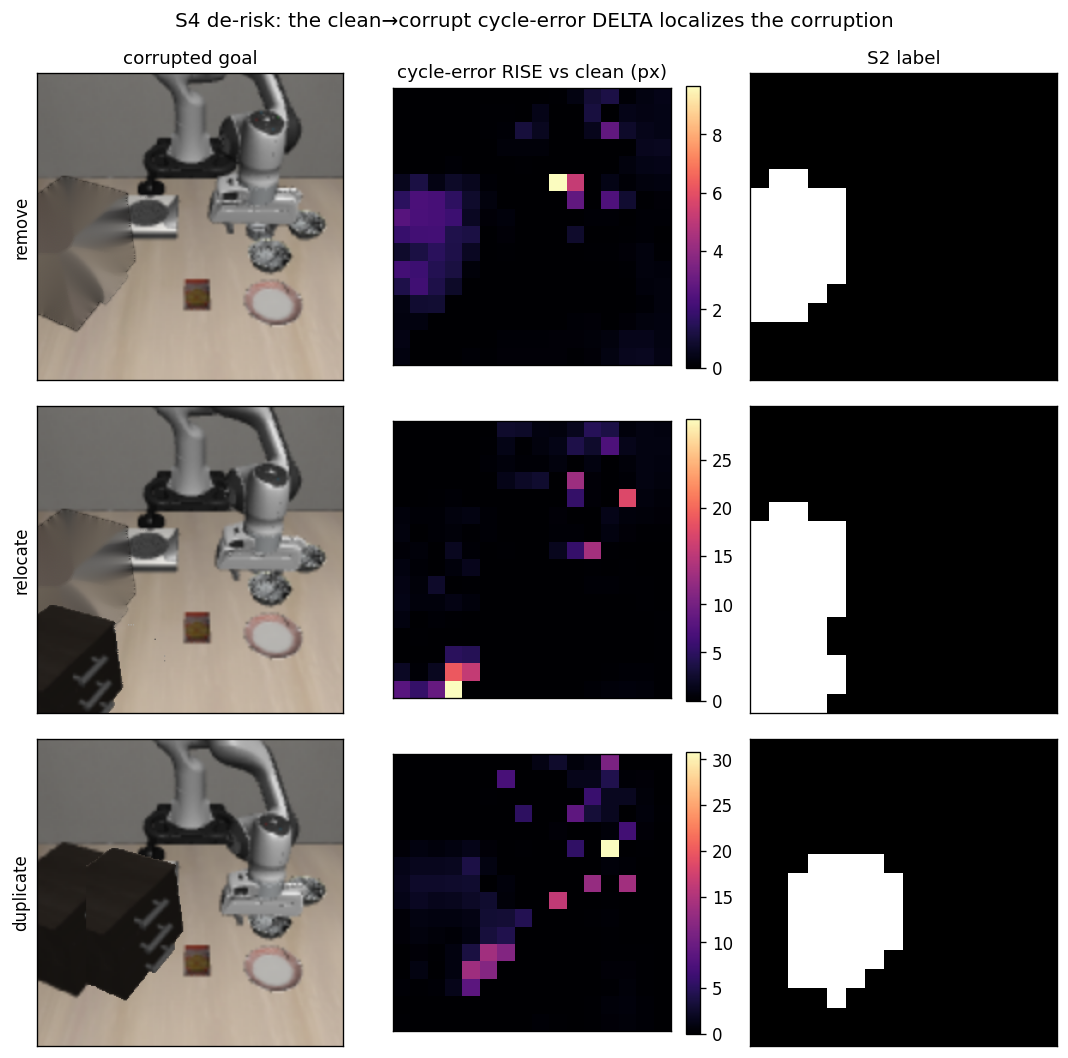
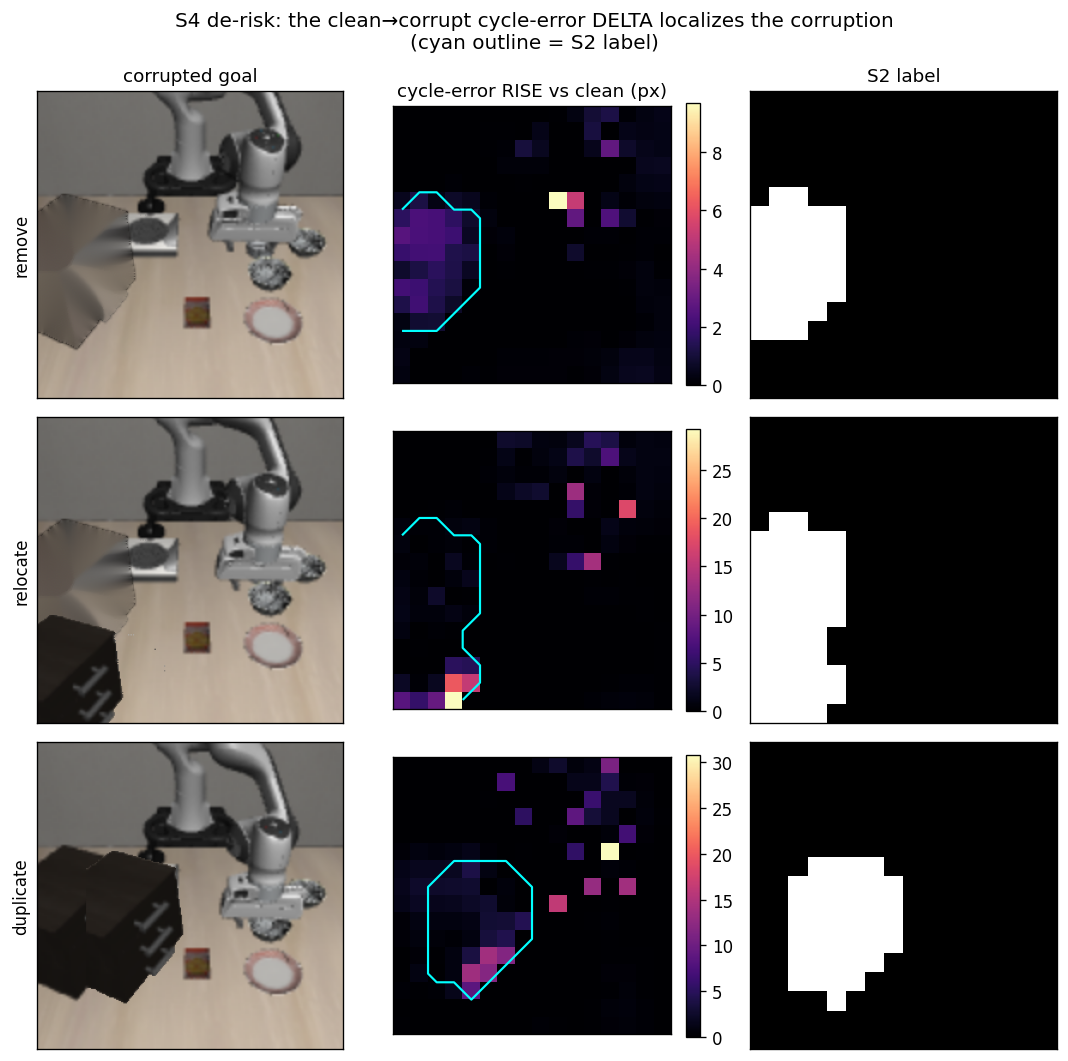
docs(S4): add direct separability visuals (ROC + distribution + label overlay)
- s4_disagreement_derisk.py emits viz/s4_derisk_roc.png and
  viz/s4_derisk_distribution.png; example heatmaps overlay the S2 label outline.
- S4 README documents all 3 figures + how to read them (per 2.6 visual rule).

diff --git a/src/eval/s4_disagreement_derisk.py b/src/eval/s4_disagreement_derisk.py
@@ -198,6 +198,8 @@ def main() -> int:
     out = Path(args.out); (out / "viz").mkdir(parents=True, exist_ok=True)
     (out / "report.json").write_text(json.dumps(report, indent=2))
     _save_examples(examples, out / "viz" / "s4_derisk_examples.png")
+    _save_roc(local, out / "viz" / "s4_derisk_roc.png")
+    _save_distribution(local, out / "viz" / "s4_derisk_distribution.png")
     print(json.dumps(report, indent=2))
     return 0
 
@@ -213,16 +215,62 @@ def _save_examples(examples, path):
     for r, (frame, cyc, lab, ctype) in enumerate(examples):
         axes[r, 0].imshow(frame); axes[r, 0].set_ylabel(ctype, fontsize=10)
         im = axes[r, 1].imshow(cyc, cmap="magma"); fig.colorbar(im, ax=axes[r, 1], fraction=0.046)
+        axes[r, 1].contour(lab.astype(float), levels=[0.5], colors="cyan", linewidths=1.3)  # label outline
         axes[r, 2].imshow(lab, cmap="Greys_r")
         for c in range(3):
             axes[r, c].set_xticks([]); axes[r, c].set_yticks([])
         if r == 0:
             for c, t in enumerate(["corrupted goal", "cycle-error RISE vs clean (px)", "S2 label"]):
                 axes[r, c].set_title(t, fontsize=11)
-    fig.suptitle("S4 de-risk: the clean→corrupt cycle-error DELTA localizes the corruption", fontsize=12)
+    fig.suptitle("S4 de-risk: the clean→corrupt cycle-error DELTA localizes the corruption\n"
+                 "(cyan outline = S2 label)", fontsize=12)
     fig.tight_layout()
     fig.savefig(path, bbox_inches="tight")
     plt.close(fig)
+
+
+def _roc_points(score, label):
+    label = label.astype(bool)
+    order = np.argsort(-score, kind="mergesort")
+    l = label[order]
+    tpr = np.concatenate([[0.0], np.cumsum(l) / max(label.sum(), 1)])
+    fpr = np.concatenate([[0.0], np.cumsum(~l) / max((~label).sum(), 1)])
+    return fpr, tpr
+
+
+def _save_roc(local, path):
+    import matplotlib
+    matplotlib.use("Agg")
+    import matplotlib.pyplot as plt
+    fig, ax = plt.subplots(figsize=(5.6, 5.3), dpi=120)
+    for key, name, col in [("delta", "cycle-error delta (corrupt−clean)", "#e45756"),
+                           ("invis", "1 − visibility", "#54a24b"),
+                           ("cyc", "absolute cycle error", "#4c78a8")]:
+        fpr, tpr = _roc_points(local[key], local["label"])
+        ax.plot(fpr, tpr, lw=2, color=col, label=f"{name}   AUROC {auroc(local[key], local['label']):.2f}")
+    ax.plot([0, 1], [0, 1], "k--", lw=1, alpha=0.4)
+    ax.set_xlabel("false positive rate"); ax.set_ylabel("true positive rate")
+    ax.set_aspect("equal"); ax.set_title("S4 de-risk — do corrupted patches rank above clean?")
+    ax.legend(loc="lower right", fontsize=9)
+    fig.tight_layout(); fig.savefig(path, bbox_inches="tight"); plt.close(fig)
+
+
+def _save_distribution(local, path):
+    import matplotlib
+    matplotlib.use("Agg")
+    import matplotlib.pyplot as plt
+    d, lab = local["delta"], local["label"].astype(bool)
+    bins = np.linspace(float(np.percentile(d, 1)), float(np.percentile(d, 99)), 40)
+    fig, ax = plt.subplots(figsize=(6.6, 4.0), dpi=120)
+    ax.hist(d[~lab], bins=bins, density=True, alpha=0.6, color="#4c78a8", label=f"clean patches (n={int((~lab).sum())})")
+    ax.hist(d[lab], bins=bins, density=True, alpha=0.6, color="#e45756", label=f"corrupted patches (n={int(lab.sum())})")
+    ax.axvline(np.median(d[~lab]), color="#4c78a8", ls="--", lw=1.5)
+    ax.axvline(np.median(d[lab]), color="#e45756", ls="--", lw=1.5)
+    ax.set_xlabel("cycle-error rise vs clean (px)"); ax.set_ylabel("density")
+    ax.set_title("Corrupted patches shift to higher disagreement\n"
+                 f"median: clean {np.median(d[~lab]):.2f}px → corrupted {np.median(d[lab]):.2f}px")
+    ax.legend()
+    fig.tight_layout(); fig.savefig(path, bbox_inches="tight"); plt.close(fig)
 
 
 if __name__ == "__main__":

diff --git a/CHANGELOG.md b/CHANGELOG.md
@@ -9,7 +9,13 @@ Format: `YYYY-MM-DD · <area>` — what changed, why, files/dirs, git commit (sh
 
 ## 2026-07-24
 
-- **S4 disagreement de-risk (pre-M1): the mechanism works, and the feature must be relative.** _(HEAD — this change)_
+- **S4 de-risk: added direct separability visuals (ROC + score distribution + label-overlaid heatmaps).** _(HEAD — this change)_
+  - `s4_disagreement_derisk.py` now also emits `viz/s4_derisk_roc.png` (ROC for delta/visibility/absolute)
+    and `viz/s4_derisk_distribution.png` (clean vs corrupted delta histogram, n=5041 vs 847 patches, median
+    0.00→1.00 px); example heatmaps now overlay the S2 label outline (cyan). Documented in the S4 README.
+  - Files: `src/eval/s4_disagreement_derisk.py`, `experiments/S4_disagreement_derisk/{README.md,viz/*}`.
+
+- **S4 disagreement de-risk (pre-M1): the mechanism works, and the feature must be relative.** `6f90b2a`
   - `src/eval/s4_disagreement_derisk.py`: native-encode `[obs…goal]` clips through the frozen backbone
     (no bridge), per-patch cycle error on the goal, AUROC vs S2 label. Reuses S0 helpers + the generators.
   - Result (`experiments/S4_disagreement_derisk/`): **cycle-error DELTA(corrupt−clean) AUROC 0.78,

diff --git a/experiments/S4_disagreement_derisk/README.md b/experiments/S4_disagreement_derisk/README.md
@@ -42,5 +42,12 @@ CKPT=checkpoints/OpenD4RT_48CLIP_9Mix_NoCropAUG
 # -> experiments/S4_disagreement_derisk/report.json + viz/s4_derisk_examples.png
 ```
 
-Figure `viz/s4_derisk_examples.png`: **corrupted goal | cycle-error rise vs clean | S2 label** — the
-delta lights up on the corrupted region (removed / relocated / duplicated object), matching the label.
+## Figures (`viz/`) — how to check it yourself
+
+| File | What it shows | Read it as |
+|---|---|---|
+| `s4_derisk_roc.png` | ROC curves for the 3 scores | delta (0.78) & visibility (0.76) bow well above the diagonal; absolute cycle (0.59) hugs it |
+| `s4_derisk_distribution.png` | histogram of the **delta** for clean vs corrupted patches (n=5041 vs 847) | clean spikes at 0 px; corrupted shifts right (median 0.00 → 1.00 px, long tail) — the separation *is* the confirmation |
+| `s4_derisk_examples.png` | per-example: corrupted goal · delta heatmap (cyan = S2 label outline) · label | the delta concentrates inside/near the label (imperfect per-example, statistically clear) |
+
+All three regenerate from the single command above.
